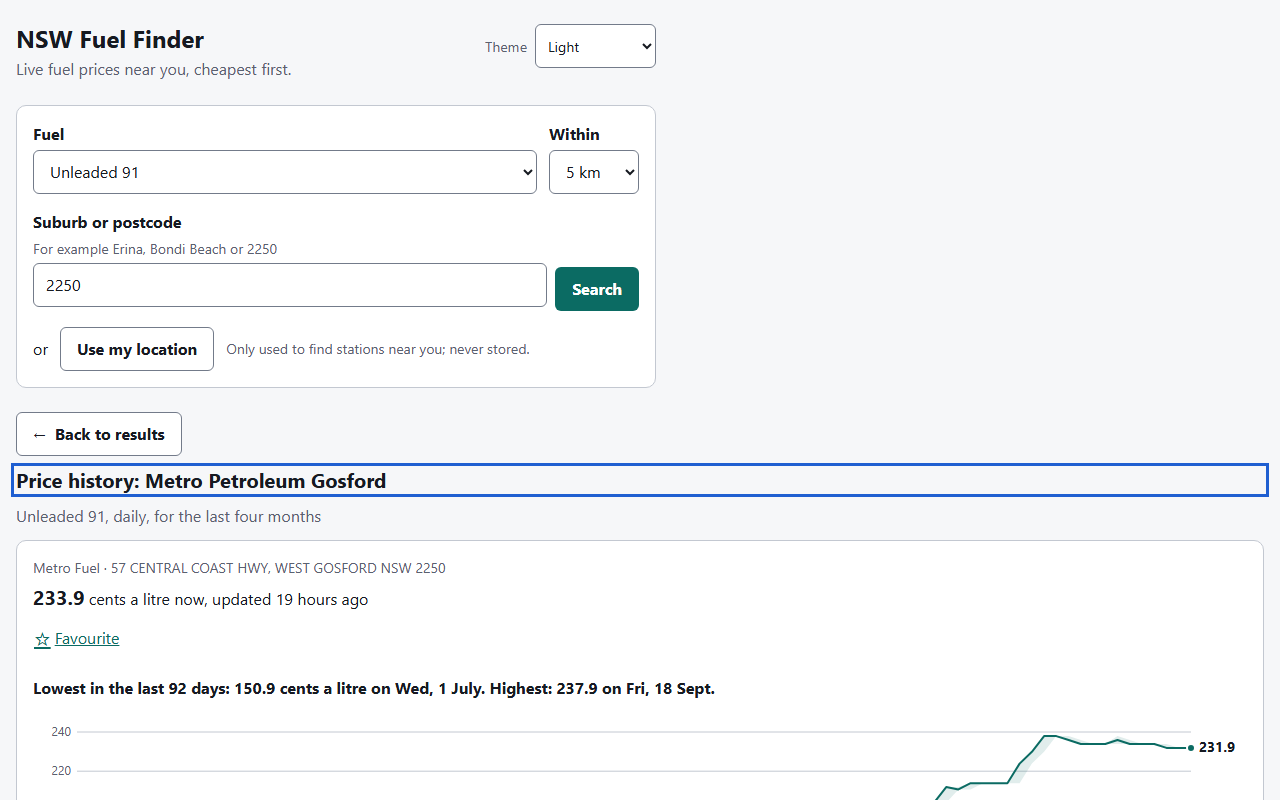
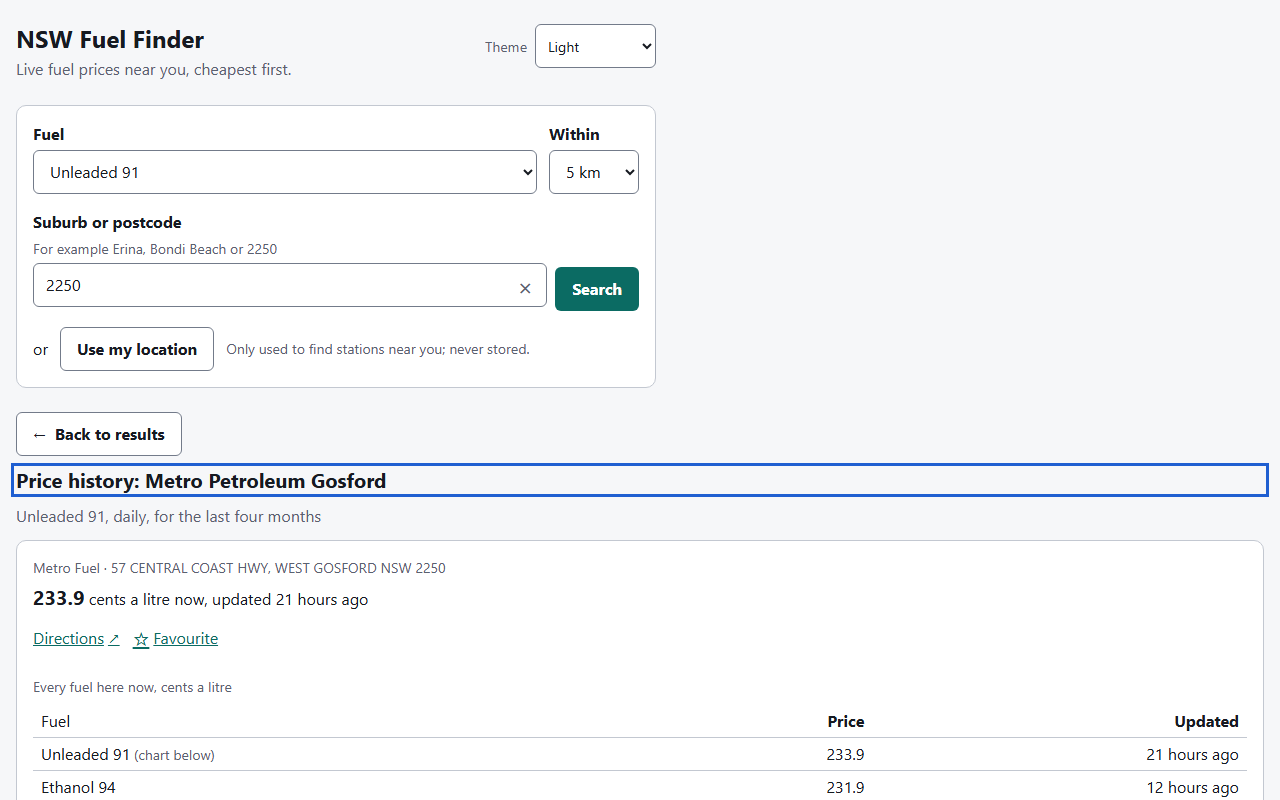
Document round 8 and refresh the screenshots
Triage, decisions and measurements in docs/decisions.md; the new API
fields in docs/api-notes.md; the README's feature summary and a filters
screenshot. Fixtures recorded from this checkout's /api on production's
snapshot (pnpm screenshots --record --from), since production does not
serve the new fields until this deploys.

Changed region(s): [[0.0312, 0.8438, 0.9688, 1.0], [0.0312, 0.7812, 0.1875, 0.8125]]

diff --git a/docs/decisions.md b/docs/decisions.md
@@ -1401,3 +1401,284 @@ can differ in the basemap alone.
 > **Early November 2026:** run `pnpm history:backfill --months 4 --upload` once
 > FuelCheck publishes October, to fill the 1-22 October gap. It writes to
 > production Blobs, so ask first. Also in the README's Maintenance section.
+
+## 2026-10-24: Round 8 (UX enhancements)
+
+### Triage
+
+**Measured** from production's 07:00 UTC snapshot on 24 Oct (2,398 stations,
+2,050 selling Unleaded 91) and the day file for 23 Oct, across all 637
+postcodes and 4,678 suburbs and localities. Read only; no API.NSW calls.
+
+| Distance | Empty postcodes | Median list | Largest list | Brands (median / max) |
+| -------- | --------------- | ----------- | ------------ | --------------------- |
+| 5 km     | 239             | 2           | 68           | 2 / 17                |
+| 10 km    | 152             | 10          | 196          | 6 / 24                |
+| 25 km    | 39              | 52          | 577          | 12 / 33               |
+| 50 km    | 7               | 115         | 754          | 18 / 38               |
+
+(Measured from each postcode's centre only, so more come back empty than in
+the app, which also counts stations whose address is in the postcode.)
+
+- 555 localities have no station within 25 km; for them the nearest is a
+  median 33 km away and the tenth nearest 57 km.
+- Since yesterday's last price, 234 of 2,047 Unleaded 91 stations (11%) have
+  changed: 54 up, 180 down. Median change 2.0 cents, 90th percentile 5.0.
+  Diesel, E10 and Premium 98 are similar.
+- A station sells a median of 4 fuels, at most 7.
+- 265 of 2,050 Unleaded 91 prices (13%) have not changed for 14 days or more.
+
+| Candidate                                  | Call               | Why                                                                                                                                                                                                                                                                                                                                                                                        |
+| ------------------------------------------ | ------------------ | ------------------------------------------------------------------------------------------------------------------------------------------------------------------------------------------------------------------------------------------------------------------------------------------------------------------------------------------------------------------------------------------ |
+| Clear (×) button in the suburb box         | Build              | Escape already clears, but nobody on a phone knows that. Small, and returns focus to the box.                                                                                                                                                                                                                                                                                              |
+| 50 km distance step                        | **Skip**           | In Sydney it is 698 to 754 stations (2000, 2150, 2170): a ~190 kB answer and 750 dots for a distance nobody in a city drives. The people 25 km fails are served better by the nearest-stations fallback below, which reaches 100 km without adding a step everyone sees. And 50 km each way to save 10 cents a litre on 50 L ($5) costs more in fuel than it saves.                        |
+| Nearest stations when a search finds none  | Build              | 555 localities find nothing at 25 km, and the old answer was a dead end. The nearest 10, up to 100 km, in distance order, says where fuel actually is. A separate `nearest` field, so a page still running the old code shows its old empty state, never far stations as "within 5 km".                                                                                                    |
+| Recent searches                            | **Later**          | The only place that does not clutter the form is inside the suburb box's suggestion list, which means changing a combobox whose keyboard and screen-reader behaviour is tested and still waiting on the phone tests; opening a list on focus is also a pattern many screen-reader users find noisy. Favourites and shareable URLs already cover "my usual". Revisit after the phone tests. |
+| Summary strip (cheapest, average, saving)  | Build              | A fixed 50 L fill, said in the sentence. A tank-size control would be one more field for a number that only scales the saving.                                                                                                                                                                                                                                                             |
+| Price change since yesterday               | Build              | 11% of stations change on a given day, by 2 to 5 cents, so it is shown only where it changed. Worked out by `/api` from yesterday's day file, which it already keeps: one ~260 kB Blobs read per warm instance per day, no API.NSW calls.                                                                                                                                                  |
+| Sort: cheapest or nearest                  | Build              | Cheap, client-side, kept in the URL.                                                                                                                                                                                                                                                                                                                                                       |
+| Brand filter, and hide prices 14+ days old | Build              | 12 brands is the median at 25 km, 33 the most, so it needs counts and must stay out of the way: a closed "Filters" disclosure. Brands as FuelCheck names them: "Ampol", "Ampol Foodary" and "EG Ampol" are different operators with different apps and cards, and grouping them would be a guess. 13% of prices are 14+ days old, so the old-price filter is worth a checkbox.             |
+| Directions link                            | Build              | Apple Maps on Apple devices, Google's universal directions URL elsewhere (it opens the Google Maps app where installed). Coordinates, not the address, so it cannot geocode to the wrong place.                                                                                                                                                                                            |
+| Every fuel the station sells               | Build              | `/api/history` already returns the station with every fuel, so it goes in the history view, which is already the station's own page. No new call of any kind.                                                                                                                                                                                                                              |
+| Search controls that stay visible          | Build, ≥90rem only | From 1440 px the form moves to a sticky column of its own, beside the list and map, so it never competes with the sticky map. Between 960 and 1440 px it stays where it is: a sticky ~300 px form above the sticky map would leave the map a slit on a 768 px-tall laptop.                                                                                                                 |
+| Very wide screens                          | Build              | The same change: from 1440 px the page grows to 112rem with the form beside the results; the list column keeps a readable measure and the map takes the rest.                                                                                                                                                                                                                              |
+| Motion                                     | Build              | Only what explains a change: cards fading up into place, sort and filter changes animating the reorder (View Transitions, where supported), a pop on the favourite star. Transform and opacity only, never from invisible, all off under reduced motion.                                                                                                                                   |
+
+### Nearest stations when a search finds none
+
+**Decision:** when nothing within the distance sells the fuel, `/api/nearby`
+and `/api/location` also send `nearest`: the 10 nearest that do, up to 100
+km, nearest first. The page heads them "Nearest stations, 73–88 km away" and
+says why before the list: "None sell Unleaded 91 within 25 km of Mount Hope
+NSW 2877, so these are the nearest 4 that do, nearest first." No sort,
+filters or saving sum: ten far-flung stations do not need them. Only when
+nothing is within 100 km is it a dead end, which says so and suggests another
+fuel; "Choose a larger distance" is gone, since every distance is now covered.
+**Why a separate field:** a page still running the old code (an open tab
+over a deploy) ignores it and shows its old empty state, rather than listing
+stations 70 km away as "within 25 km".
+**Why 100 km:** beyond it a list helps nobody. Lord Howe Island is 580 km
+from the nearest station.
+**Nearby searches:** the API only has the position rounded to ~1 km and
+searches 0.8 km past the radius to make up for it. If everything it found is
+really just outside the radius, those are the nearest, measured again from
+the precise position; otherwise the API's own `nearest`, measured again.
+
+### Change since yesterday
+
+**Decision:** each station's price says how far it has moved today:
+"↓ 2.0 today" under the price, in the list and on the map's card. Nothing
+when it has not moved, which is most stations on most days, so the movers
+stand out. Screen readers hear "down 2.0 cents a litre since yesterday"; the
+arrow is hidden from them. Cheaper is in the accent colour, dearer in the
+warning colour, but the arrow and the words carry it without colour.
+**Where it comes from:** `/api` compares the snapshot with yesterday's last
+price in our own day file (`history/v1/DAY`, Sydney day). Each warm instance
+reads that file once a day (about 260 kB, eventual consistency, since a
+finished day never changes) and keeps it. A failed or missing read leaves
+every change unknown (`null`), is retried after five minutes, and never fails
+a search. No API.NSW calls.
+**"today", not "since yesterday", on screen:** they mean the same thing (the
+move since yesterday's last price is the move made today) and "today" fits
+the price column at 320 px.
+
+### The price summary
+
+**Decision:** one sentence over the list: "Cheapest 233.9, average 239.9
+cents a litre. Filling 50 litres at the cheapest saves $3.02 on the
+average." Of the stations shown, after filters. The mean, not the median: it
+is what "average" means to most people, and outliers barely move it when
+there are many stations. The saving is left out under 50 cents, and the
+whole sentence with fewer than two stations.
+**One sentence for screen readers too.** The visible copy has its three
+numbers in bold. Chromium's accessibility tree showed it as five fragments,
+and VoiceOver on iOS stops at every inline element when swiping. So the
+visible copy is `aria-hidden` and a visually hidden copy carries the same
+words as plain text. Checked in Chromium: one paragraph, one string.
+
+### Sort and filters
+
+**Decision:**
+
+- **Sort** is a native select, "Cheapest first" or "Nearest first", like
+  Fuel and Within. In the URL as `sort=distance`; the list's name follows
+  ("Stations, nearest first"), and so does the status ("Listing the nearest
+  20"). The "Cheapest" badge stays on the cheapest, wherever it now sits.
+- **Filters** are in a closed `<details>`, whose summary says what is in
+  force: "Filters: all brands", "Filters: BP and Shell", "Filters: 3 brands,
+  recent prices only". So a closed panel never hides that the list is
+  filtered. Inside: native checkboxes in a fieldset, in CSS columns, each
+  with its count, and "Hide prices not updated for 14 days or more (n)".
+  Counts are of what is left after the old-price filter, so they add up to
+  the list. In the URL as repeated `brand=` and `old=hide`.
+- **Kept across searches**, like the fuel: someone with a Shell card wants
+  Shell in the next suburb too. A brand ticked earlier that is not in these
+  results is still listed, at 0, so it can be unticked.
+- **When filters leave nothing**, the heading says "0 of 19 stations within
+  5 km of ..." and the page says "None of the 19 stations match your
+  filters", with a Clear filters button that moves focus to the heading
+  before it goes.
+- **The panel's own Clear filters button is never disabled.** A focused
+  button that disables itself drops focus to the page; with nothing to clear
+  it does nothing.
+- **Brands as FuelCheck names them.** All 63 brand names in the snapshot
+  pass the URL check (letters, digits, spaces and `&'.()+-`, up to 40), from
+  "7-Eleven" to "PK's" and "Mobil 1 Carlingford Car Care".
+
+The API never sees sort or filters: the results are already on the page, so
+there is no extra request, no extra function invocation and no cache miss.
+
+### Directions
+
+**Decision:** a "Directions" link on every station (list, map card and the
+station's own page) that opens in a new tab: Apple Maps on iPhone and iPad,
+Google's universal directions URL everywhere else, which opens the Google
+Maps app where it is installed. iPadOS asks for desktop sites and says
+"Macintosh"; a Mac with touch points is an iPad, a real Mac has none.
+By coordinates, not the address: FuelCheck addresses are sometimes a highway
+and a town. The start is wherever the maps app says you are; our page never
+passes the user's position on. `rel="noopener noreferrer"`. Its name is
+"Directions to Metro Gosford, opens in a new tab", starting with the visible
+word (WCAG 2.5.3). Found in the tests: the space before "to" was inside the
+visually hidden text and was trimmed from the name ("Directionsto"); it is
+now outside.
+
+### The clear button
+
+**Decision:** a × inside the suburb box, only when there is text, named
+"Clear suburb or postcode". It empties the box and puts focus back in it,
+ready to type, since the button itself is about to go. It is its own Tab stop
+after the box. Clearing is not a search: the results stay until the next one.
+
+### Every fuel at a station
+
+**Decision:** in the station's own page (the history view), above the chart:
+a table of every fuel it sells now, price and when it was updated, in the
+fuel picker's order, the charted one marked "(chart below)". `/api/history`
+already returns the station with every fuel, so it costs no request at all.
+Directions are there too.
+
+### Very wide screens, and search controls that stay in view
+
+**Decision:** from 90rem (1440 px) the page grows to 112rem and the search
+form moves to a 22rem column of its own on the left, beside the results. It
+sticks while the list scrolls, when the window is at least 40rem tall (so a
+short window can still reach the bottom of the form). From 100rem (1600 px)
+the list stops at 34rem and the map takes the rest: more map is useful,
+longer lines of station text are not. Between 960 and 1440 px nothing
+changes: there the form is above the list and the map, and making it sticky
+would leave the sticky map a slit on a 768 px-tall laptop. Captured in
+[wide-light-results.png](screenshots/wide-light-results.png).
+
+### Motion
+
+**Decision:** three animations, transform and opacity only, all inside
+`prefers-reduced-motion: no-preference`:
+
+- **New cards** (a search's results, "Show more") rise 6 px and fade from
+  half opacity, over 180 ms. Never from invisible, so the price is readable
+  from the first frame.
+- **Sorting and filtering** slide each card from its old place to its new
+  one (FLIP: measure, change, measure, animate the difference as a
+  transform), for the first 40 cards, over 220 ms.
+- **Saving a favourite** gives the star a quick grow and settle, only after a
+  press (stars already saved when the list appears stay still).
+
+**View Transitions, tried and dropped.** The first version wrapped sort and
+filter changes in `document.startViewTransition`. In the browser:
+
+1. Its overlay covers the page for the length of the transition and takes
+   every click. Ticking a second brand within 200 ms of the first did
+   nothing and dropped focus to `<body>`. (`pointer-events: none` on the
+   overlay fixes that.)
+2. It applies the change a frame late, in its callback. A React-controlled
+   checkbox snaps back to unticked until then, which Playwright reported as
+   "clicking the checkbox did not change its state", and a screen reader can
+   announce the old state. Nothing fixes that while the change is deferred.
+
+The FLIP version changes the page at once, as before, and animates only the
+cards' pixels, with nothing over the page. It also works in every browser,
+not just those with View Transitions.
+
+**Measured** in Chromium against the build: layout shift (CLS) 0 on load,
+and 0 after sorting and filtering with real keyboard and mouse input. With
+reduced motion, no animation runs at all.
+
+**Found by the smoke check:** the map check that clicks a station's dot
+began failing about half the time. The cause was the check, not the app: it
+clicked a card's button during the card's 180 ms entrance, Playwright found
+it "not stable", and retried with a forced scroll alignment that moved the
+page, so the sticky map was no longer where the check expected. The check now
+waits for the cards to settle; 4 of 4 runs pass (as the old build did).
+
+### Library behaviour this relies on
+
+- **`<details>`/`<summary>`:** the summary is the toggle, keyboard included;
+  `display: list-item` keeps the browser's marker, which is what says it opens.
+- **React controlled inputs:** a checkbox or select shows React's value right
+  after the change event. Delay the state update (as View Transitions did)
+  and it shows the old value meanwhile.
+- **`Element.animate`:** Web Animations, everywhere we support; skipped if
+  missing. Transforms do not count as layout shift.
+- **CSS `columns`:** fills top to bottom, so reading and Tab order (DOM order)
+  match what is seen.
+- **`position: sticky`** only sticks within its grid area, which is why the
+  form spans both rows of its column.
+- **`Intl.NumberFormat('en-AU', { currency: 'AUD' })`:** "$3.02".
+- **`URLSearchParams.getAll('brand')`** for repeated parameters; brands are
+  sorted when written, so one filter is one URL.
+- **The browser's own cache** keeps a prices answer for 60 s (`max-age=60`),
+  so for a minute after a deploy new code can receive an old answer without
+  `nearest` or `changeCents`. `fetchPrices` fills them in (`[]`, `null`).
+- **Playwright** retries a click on an element that is not stable, with a
+  forced scroll alignment. Checks that measure positions wait for animations.
+
+### Bundle sizes, round 8
+
+| Payload            | Round 7 | Round 8 | Budget        |
+| ------------------ | ------- | ------- | ------------- |
+| Initial JS         | 324.2   | 333.9   | 350 (was 332) |
+| Initial CSS        | 17.1    | 20.6    | 22 (was 18)   |
+| History view chunk | 8.4     | 9.3     | 16            |
+| Map chunk          | 1,015.9 | 1,015.9 | 1,100         |
+| MapLibre worker    | 496.4   | 496.4   | 540           |
+
+Initial JS grew 9.7 kB raw (3.0 kB gzipped) and CSS 3.5 kB raw (0.7 kB
+gzipped), for sort, filters, the summary, today's change, directions, the
+clear button and the motion. **Both budgets raised on purpose**, in
+`scripts/check-bundle-budget.js`: all of it is on screen with the first
+results, so a lazy chunk would only delay it. The new budgets are 5 to 7% over
+the new sizes again: room for a small feature, not for a library.
+
+### Testing this round
+
+- **Unit and integration:** the API's nearest list and its 100 km cap,
+  change since yesterday (cheaper, dearer, same, unknown, unreadable), the
+  day-file cache and its retry; sort, filters and their URL; counts, a
+  chosen brand at 0, no-match and its focus; the summary as one spoken
+  sentence; today's change in words; directions per platform; the clear
+  button by mouse and keyboard; every fuel at a station; the reorder
+  animation (and none with reduced motion); axe on each new state.
+- **Real browser** (against the build, with production's headers and this
+  checkout's `/api` on production's snapshot): `pnpm check:a11y` covers the
+  filters open, no-match and nearest states in both themes with contrast on,
+  and 1600 px; `pnpm check:browser` covers the summary, sort, a brand filter
+  (focus kept), directions, every fuel, nearest stations, the clear button
+  and the very wide layout.
+- **Screen readers:** checked through Chromium's accessibility tree only.
+  NVDA, VoiceOver and TalkBack are on the phone test list.
+
+### Suggestions for later
+
+1. **Offline at the pump.** Country service stations often have one bar of
+   signal. A small service worker caching the app shell and the last results
+   would show the last prices, clearly marked with their time, instead of an
+   error. The manifest is already there; this is the missing half of "add to
+   home screen".
+2. **Where prices are heading.** Sydney's prices move in a cycle of a few
+   weeks. With today's changes already in the answer, the summary could say
+   "Most stations here cut prices today" (or raised them), which is the
+   question behind "fill up now or wait?". One line, no new data.
+3. **Remember the last search** instead of recent searches: open on the last
+   place searched (stored on this device, with a way to forget it), which is
+   what most returning visitors want and needs no new control on the form.

diff --git a/README.md b/README.md
@@ -15,9 +15,9 @@ A portfolio project about live data, built as a deliberate contrast to
 touches the network. Here everything depends on someone else's API, quota and
 uptime, and the interesting work is making that dependable.
 
-| Phone, light                                                              | Phone, dark                                                                    | Price history                                                              |
-| ------------------------------------------------------------------------- | ------------------------------------------------------------------------------ | -------------------------------------------------------------------------- |
-| ![Results as a list on a phone](docs/screenshots/phone-light-results.png) | ![Results as a list on a phone, dark](docs/screenshots/phone-dark-results.png) | ![A station's daily price chart](docs/screenshots/phone-light-history.png) |
+| Phone, light                                                              | Phone, dark                                                                    | Price history                                                              | Filters                                                                        |
+| ------------------------------------------------------------------------- | ------------------------------------------------------------------------------ | -------------------------------------------------------------------------- | ------------------------------------------------------------------------------ |
+| ![Results as a list on a phone](docs/screenshots/phone-light-results.png) | ![Results as a list on a phone, dark](docs/screenshots/phone-dark-results.png) | ![A station's daily price chart](docs/screenshots/phone-light-history.png) | ![The filters open, one brand ticked](docs/screenshots/phone-dark-filters.png) |
 
 ## How it works
 
@@ -64,6 +64,16 @@ in Blobs stops the job before a third failed sign-in, and `/api/status`
 reports, in plain English, any gap between what the job wrote and what the
 API serves. A stall of exactly that kind happened once, and is written up in
 the log.
+
+**Answers, not just a list.** A sentence over the results says the cheapest,
+the average and what the difference is worth on a 50 L fill. Each station
+says how far its price has moved today ("↓ 2.0 today", worked out from our
+own history, shown only where it moved) and has directions in the phone's
+own maps app. The list can be sorted nearest first and filtered by brand or
+by price age, all in the URL, all on the device: the API never sees them, so
+they cost no request. A search that finds nothing within the distance lists
+the nearest stations up to 100 km instead of stopping. From 1440 px the
+search form sits in a column of its own and stays in view.
 
 **Accessibility as a requirement, not a pass at the end.** Native controls
 wherever they fit: the fuel, distance and theme pickers are `<select>`s, which
@@ -120,6 +130,9 @@ The browser check fails on any policy violation.
 - **As fresh as retailers report.** Stations must report a change within 30
   minutes, and the snapshot adds up to 30 more. A price untouched for 14 days
   or more is flagged.
+- **"Today" is against our own records.** A price's move today compares it
+  with the last price our 30-minute snapshot saw yesterday, so a change made
+  and undone between two snapshots is not seen.
 - **History has a gap from 1 to 22 October 2026.** The published history
   currently ends on 30 September, and our own starts on 23 October. The gap is
   shaded "No data" until FuelCheck publishes October (see Maintenance).
@@ -153,10 +166,10 @@ pnpm dev:netlify          # the app and the functions together, at :8888
 | `pnpm lint`              | ESLint, including jsx-a11y and type-aware rules                             |
 | `pnpm build`             | The production build                                                        |
 | `pnpm bundle:check`      | Bundle budgets, after a build                                               |
-| `pnpm check:browser URL` | Real-browser smoke check (Playwright): search, map, history, CSP violations |
+| `pnpm check:browser URL` | Real-browser smoke check (Playwright): search, map, filters, history, CSP   |
 | `pnpm check:a11y URL`    | axe with colour contrast in both themes, first paint, five screen sizes     |
 | `pnpm serve:headers`     | The build with production's security headers, to test a CSP change first    |
-| `pnpm screenshots`       | These screenshots and the social card, from committed fixtures              |
+| `pnpm screenshots`       | These screenshots and the social card, from committed fixtures (`--record`) |
 | `pnpm history:backfill`  | Rebuild history from FuelCheck's monthly files (`--upload` writes to Blobs) |
 
 CI runs typecheck, lint, format, tests, build and the bundle budget on every

diff --git a/docs/api-notes.md b/docs/api-notes.md
@@ -330,6 +330,9 @@ interface PricesResponse {
   stale: boolean;
   origin: { latitude: number; longitude: number; label: string | null };
   stations: StationPrice[]; // cheapest first, then nearest, then name
+  // Round 8. Only when stations is empty: the 10 nearest selling this fuel,
+  // up to 100 km, nearest first. A field of its own so older pages ignore it.
+  nearest: StationPrice[];
 }
 
 interface StationPrice {
@@ -342,6 +345,9 @@ interface StationPrice {
   distanceKm: number; // from origin
   priceCents: number;
   priceUpdatedAt: string; // ISO UTC
+  // Round 8. Cents since the station's last price yesterday (Sydney day):
+  // -2 is cheaper. 0 unchanged; null when there is no price for yesterday.
+  changeCents: number | null;
 }
 
 interface PlaceSuggestionsResponse {
@@ -370,6 +376,17 @@ Caching:
 - Suggestions: an hour in the browser, a day at the edge. They only change
   with a deploy, and a deploy purges the CDN.
 - Errors are `no-store`.
+
+### Change since yesterday (round 8)
+
+`changeCents` comes from our own day file for the Sydney day before the
+snapshot's (`history/v1/YYYY-MM-DD`, the day's [low, high, last] for every
+station and fuel), not from API.NSW, which has no history. Each warm `/api`
+instance reads it once (about 260 kB, eventual consistency: a finished day
+never changes) and keeps it until the day moves on. A failed or missing read
+leaves every change `null` and is retried after five minutes; it never fails
+a search. Measured on 24 Oct: 11% of Unleaded 91 stations had moved since the
+day before, by a median of 2.0 cents.
 
 ### Place lookup (round 3)
 
